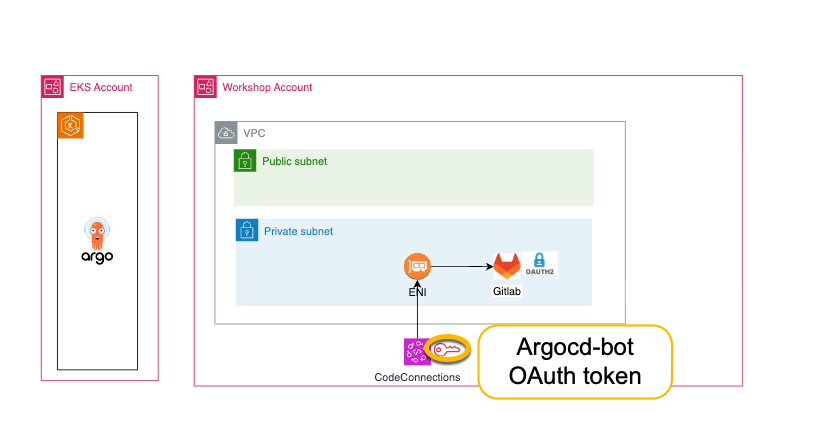
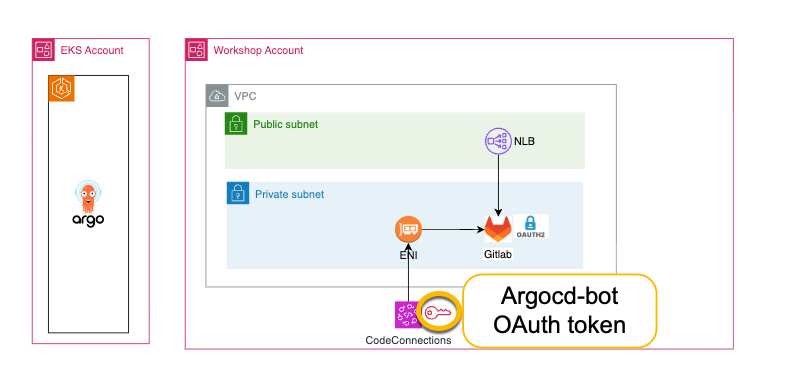
gitlab

Changed region(s): [[0.0303, 0.0935, 0.9394, 0.9662], [0.9091, 0.0935, 0.9394, 0.1247]]

diff --git a/content/300_optional/010_codeconnections.md b/content/300_optional/010_codeconnections.md
@@ -3,7 +3,9 @@ title: "CodeConnections"
 weight: 010
 ---
 
-::alert[In this chapter, AWS CodeConnections is used to connect ArgoCD to a private GitLab repository. GitLab runs on a private network and CodeConnections accesses it through a VPC configuration. However, the CodeConnections OAuth setup requires your browser to reach GitLab directly to approve the connection. Since workshop participants don't have VPN access to the private network, GitLab is exposed via an internet-facing load balancer for this step. In your organization, you would complete the OAuth handshake from a machine on the private network (e.g., via VPN) and keep GitLab fully private ]{header="Important" type="warning"}
+In this chapter, you'll connect ArgoCD to a private GitLab repository using AWS CodeConnections. CodeConnections works by registering an OAuth application on your GitLab instance, then using OAuth tokens to securely access repositories. AWS manages the token lifecycle — including automatic renewal and secure storage — so there are no long-lived credentials to manage or rotate.
+
+::alert[In this chapter, AWS CodeConnections is used to connect ArgoCD to a private GitLab repository. GitLab runs on a private network and CodeConnections accesses it through a VPC configuration. However, the CodeConnections OAuth setup requires your browser to reach GitLab directly to approve the connection. Since workshop participants don't have VPN access to the private network, GitLab is exposed via an internet-facing network load balancer for this step. In your organization, you would complete the OAuth handshake from a machine on the private network and keep GitLab fully private. ]{header="Important" type="warning"}
 
 ### 1. Access the Gitlab
 
@@ -15,9 +17,11 @@ gitlab_url
 :::
 <!-- prettier-ignore-end -->
 
+![Gitlab Initial](/static/images/codeconnections/gitlab-initial.png)
+
 You will login with credentials **gitlab/argocdonaws**
 
-::alert[You'll see a browser warning about an untrusted certificate. This is expected — the workshop uses a self-signed cert. Proceed past the warning to access GitLab ]{header="Important" type="warning"}
+::alert[You'll see a browser warning about an untrusted certificate. This is expected — the workshop uses a self-signed cert. Proceed past the warning to access GitLab. ]{header="Important" type="warning"}
 
 On the left navigation select Projects. Then select "Gitlab Admin / guestbook" project.
 
@@ -83,6 +87,8 @@ Click **Create connection**.
 ![Create Connection Values](/static/images/codeconnections/create-connection-values.png)
 
 ### 4. Update Connection
+
+::alert[Before proceeding, make sure you are logged out of the GitLab console. If you're still logged in as the `gitlab` admin user, the OAuth authorization will use the admin's credentials instead of the dedicated service account, giving the connection full access to all repos. Log out first — the OAuth flow will prompt you to log in with the correct user.]{header="Important" type="warning"}
 
 The connection will be created in **Pending** status. Click **Update pending connection** to complete the OAuth handshake.
 
